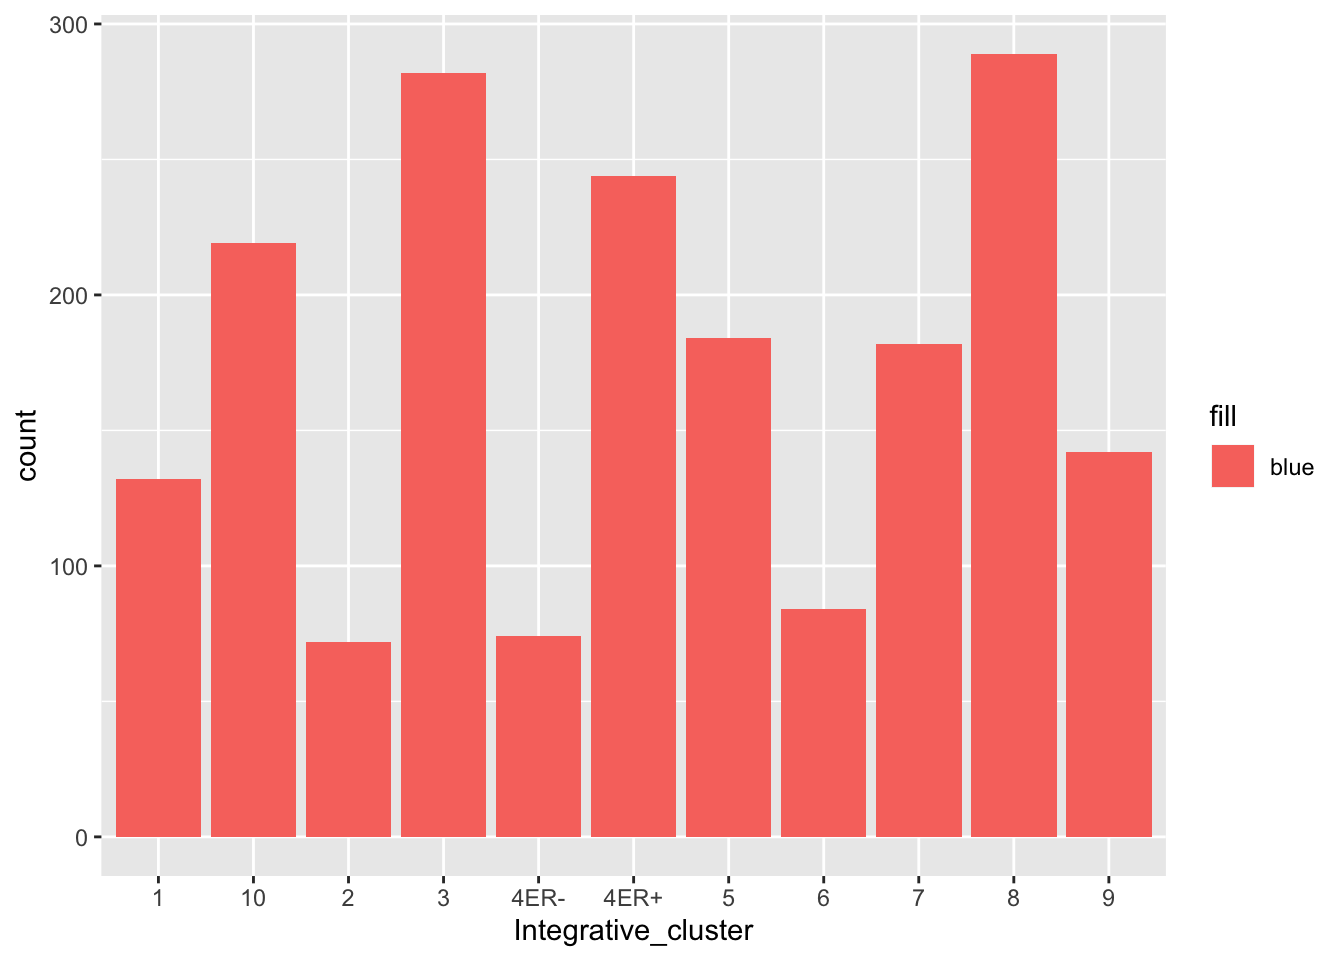
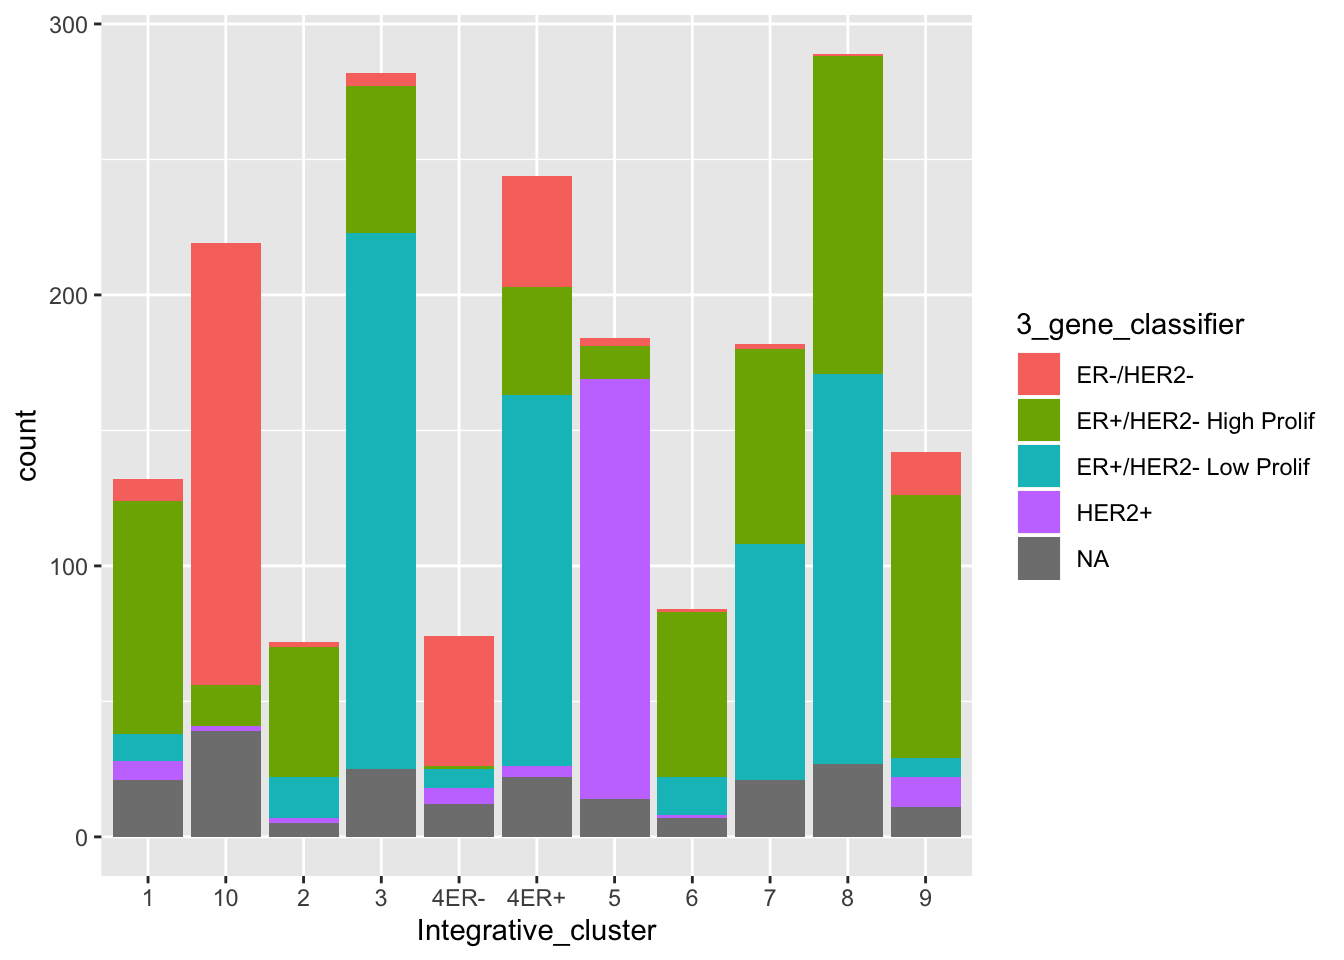
Added section on box plots.

diff --git a/docs/week2.html b/docs/week2.html
@@ -758,8 +758,8 @@ heights_in_centimetres</code></pre>
 <div id="combining-data-of-different-types" class="section level1">
 <h1>Combining data of different types</h1>
 <p>Vectors are all very well and good but your data are almost certainly more complicated than an ordered set of values all of the same type. You’ve probably been working with Excel spreadsheets that contain some columns that are numerical while others contain names or character strings, e.g. the following table of Star Wars characters.</p>
-<div id="htmlwidget-4cc543c7424d02c3016c" style="width:100%;height:auto;" class="datatables html-widget"></div>
-<script type="application/json" data-for="htmlwidget-4cc543c7424d02c3016c">{"x":{"filter":"none","data":[["Luke Skywalker","C-3PO","R2-D2","Darth Vader","Leia Organa","Owen Lars","Beru Whitesun lars","R5-D4","Biggs Darklighter","Obi-Wan Kenobi","Anakin Skywalker","Wilhuff Tarkin","Chewbacca","Han Solo","Greedo","Jabba Desilijic Tiure","Wedge Antilles","Jek Tono Porkins","Yoda","Palpatine","Boba Fett","IG-88","Bossk","Lando Calrissian","Lobot","Ackbar","Mon Mothma","Arvel Crynyd","Wicket Systri Warrick","Nien Nunb","Qui-Gon Jinn","Nute Gunray","Finis Valorum","Jar Jar Binks","Roos Tarpals","Rugor Nass","Ric Olié","Watto","Sebulba","Quarsh Panaka","Shmi Skywalker","Darth Maul","Bib Fortuna","Ayla Secura","Dud Bolt","Gasgano","Ben Quadinaros","Mace Windu","Ki-Adi-Mundi","Kit Fisto","Eeth Koth","Adi Gallia","Saesee Tiin","Yarael Poof","Plo Koon","Mas Amedda","Gregar Typho","Cordé","Cliegg Lars","Poggle the Lesser","Luminara Unduli","Barriss Offee","Dormé","Dooku","Bail Prestor Organa","Jango Fett","Zam Wesell","Dexter Jettster","Lama Su","Taun We","Jocasta Nu","Ratts Tyerell","R4-P17","Wat Tambor","San Hill","Shaak Ti","Grievous","Tarfful","Raymus Antilles","Sly Moore","Tion Medon","Finn","Rey","Poe Dameron","BB8","Captain Phasma","Padmé Amidala"],[172,167,96,202,150,178,165,97,183,182,188,180,228,180,173,175,170,180,66,170,183,200,190,177,175,180,150,null,88,160,193,191,170,196,224,206,183,137,112,183,163,175,180,178,94,122,163,188,198,196,171,184,188,264,188,196,185,157,183,183,170,166,165,193,191,183,168,198,229,213,167,79,96,193,191,178,216,234,188,178,206,null,null,null,null,null,165],[77,75,32,136,49,120,75,32,84,77,84,null,112,80,74,1358,77,110,17,75,78.2,140,113,79,79,83,null,null,20,68,89,90,null,66,82,null,null,null,40,null,null,80,null,55,45,null,65,84,82,87,null,50,null,null,80,null,85,null,null,80,56.2,50,null,80,null,79,55,102,88,null,null,15,null,48,null,57,159,136,79,48,80,null,null,null,null,null,45],["male",null,null,"male","female","male","female",null,"male","male","male","male","male","male","male","hermaphrodite","male","male","male","male","male","none","male","male","male","male","female","male","male","male","male","male","male","male","male","male","male","male","male","male","female","male","male","female","male","male","male","male","male","male","male","female","male","male","male","male","male","female","male","male","female","female","female","male","male","male","female","male","male","female","female","male","female","male","male","female","male","male","male","female","male","male","female","male","none","female","female"],["Human","Droid","Droid","Human","Human","Human","Human","Droid","Human","Human","Human","Human","Wookiee","Human","Rodian","Hutt","Human","Human","Yoda's species","Human","Human","Droid","Trandoshan","Human","Human","Mon Calamari","Human","Human","Ewok","Sullustan","Human","Neimodian","Human","Gungan","Gungan","Gungan",null,"Toydarian","Dug",null,"Human","Zabrak","Twi'lek","Twi'lek","Vulptereen","Xexto","Toong","Human","Cerean","Nautolan","Zabrak","Tholothian","Iktotchi","Quermian","Kel Dor","Chagrian","Human","Human","Human","Geonosian","Mirialan","Mirialan","Human","Human","Human","Human","Clawdite","Besalisk","Kaminoan","Kaminoan","Human","Aleena",null,"Skakoan","Muun","Togruta","Kaleesh","Wookiee","Human",null,"Pau'an","Human","Human","Human","Droid",null,"Human"],["Tatooine","Tatooine","Naboo","Tatooine","Alderaan","Tatooine","Tatooine","Tatooine","Tatooine","Stewjon","Tatooine","Eriadu","Kashyyyk","Corellia","Rodia","Nal Hutta","Corellia","Bestine IV",null,"Naboo","Kamino",null,"Trandosha","Socorro","Bespin","Mon Cala","Chandrila",null,"Endor","Sullust",null,"Cato Neimoidia","Coruscant","Naboo","Naboo","Naboo","Naboo","Toydaria","Malastare","Naboo","Tatooine","Dathomir","Ryloth","Ryloth","Vulpter","Troiken","Tund","Haruun Kal","Cerea","Glee Anselm","Iridonia","Coruscant","Iktotch","Quermia","Dorin","Champala","Naboo","Naboo","Tatooine","Geonosis","Mirial","Mirial","Naboo","Serenno","Alderaan","Concord Dawn","Zolan","Ojom","Kamino","Kamino","Coruscant","Aleen Minor",null,"Skako","Muunilinst","Shili","Kalee","Kashyyyk","Alderaan","Umbara","Utapau",null,null,null,null,null,"Naboo"]],"container":"<table class=\"display\">\n  <thead>\n    <tr>\n      <th>name<\/th>\n      <th>height<\/th>\n      <th>mass<\/th>\n      <th>gender<\/th>\n      <th>species<\/th>\n      <th>homeworld<\/th>\n    <\/tr>\n  <\/thead>\n<\/table>","options":{"columnDefs":[{"className":"dt-right","targets":[1,2]}],"order":[],"autoWidth":false,"orderClasses":false}},"evals":[],"jsHooks":[]}</script>
+<div id="htmlwidget-1b632fa016c77bcc2a83" style="width:100%;height:auto;" class="datatables html-widget"></div>
+<script type="application/json" data-for="htmlwidget-1b632fa016c77bcc2a83">{"x":{"filter":"none","data":[["Luke Skywalker","C-3PO","R2-D2","Darth Vader","Leia Organa","Owen Lars","Beru Whitesun lars","R5-D4","Biggs Darklighter","Obi-Wan Kenobi","Anakin Skywalker","Wilhuff Tarkin","Chewbacca","Han Solo","Greedo","Jabba Desilijic Tiure","Wedge Antilles","Jek Tono Porkins","Yoda","Palpatine","Boba Fett","IG-88","Bossk","Lando Calrissian","Lobot","Ackbar","Mon Mothma","Arvel Crynyd","Wicket Systri Warrick","Nien Nunb","Qui-Gon Jinn","Nute Gunray","Finis Valorum","Jar Jar Binks","Roos Tarpals","Rugor Nass","Ric Olié","Watto","Sebulba","Quarsh Panaka","Shmi Skywalker","Darth Maul","Bib Fortuna","Ayla Secura","Dud Bolt","Gasgano","Ben Quadinaros","Mace Windu","Ki-Adi-Mundi","Kit Fisto","Eeth Koth","Adi Gallia","Saesee Tiin","Yarael Poof","Plo Koon","Mas Amedda","Gregar Typho","Cordé","Cliegg Lars","Poggle the Lesser","Luminara Unduli","Barriss Offee","Dormé","Dooku","Bail Prestor Organa","Jango Fett","Zam Wesell","Dexter Jettster","Lama Su","Taun We","Jocasta Nu","Ratts Tyerell","R4-P17","Wat Tambor","San Hill","Shaak Ti","Grievous","Tarfful","Raymus Antilles","Sly Moore","Tion Medon","Finn","Rey","Poe Dameron","BB8","Captain Phasma","Padmé Amidala"],[172,167,96,202,150,178,165,97,183,182,188,180,228,180,173,175,170,180,66,170,183,200,190,177,175,180,150,null,88,160,193,191,170,196,224,206,183,137,112,183,163,175,180,178,94,122,163,188,198,196,171,184,188,264,188,196,185,157,183,183,170,166,165,193,191,183,168,198,229,213,167,79,96,193,191,178,216,234,188,178,206,null,null,null,null,null,165],[77,75,32,136,49,120,75,32,84,77,84,null,112,80,74,1358,77,110,17,75,78.2,140,113,79,79,83,null,null,20,68,89,90,null,66,82,null,null,null,40,null,null,80,null,55,45,null,65,84,82,87,null,50,null,null,80,null,85,null,null,80,56.2,50,null,80,null,79,55,102,88,null,null,15,null,48,null,57,159,136,79,48,80,null,null,null,null,null,45],["male",null,null,"male","female","male","female",null,"male","male","male","male","male","male","male","hermaphrodite","male","male","male","male","male","none","male","male","male","male","female","male","male","male","male","male","male","male","male","male","male","male","male","male","female","male","male","female","male","male","male","male","male","male","male","female","male","male","male","male","male","female","male","male","female","female","female","male","male","male","female","male","male","female","female","male","female","male","male","female","male","male","male","female","male","male","female","male","none","female","female"],["Human","Droid","Droid","Human","Human","Human","Human","Droid","Human","Human","Human","Human","Wookiee","Human","Rodian","Hutt","Human","Human","Yoda's species","Human","Human","Droid","Trandoshan","Human","Human","Mon Calamari","Human","Human","Ewok","Sullustan","Human","Neimodian","Human","Gungan","Gungan","Gungan",null,"Toydarian","Dug",null,"Human","Zabrak","Twi'lek","Twi'lek","Vulptereen","Xexto","Toong","Human","Cerean","Nautolan","Zabrak","Tholothian","Iktotchi","Quermian","Kel Dor","Chagrian","Human","Human","Human","Geonosian","Mirialan","Mirialan","Human","Human","Human","Human","Clawdite","Besalisk","Kaminoan","Kaminoan","Human","Aleena",null,"Skakoan","Muun","Togruta","Kaleesh","Wookiee","Human",null,"Pau'an","Human","Human","Human","Droid",null,"Human"],["Tatooine","Tatooine","Naboo","Tatooine","Alderaan","Tatooine","Tatooine","Tatooine","Tatooine","Stewjon","Tatooine","Eriadu","Kashyyyk","Corellia","Rodia","Nal Hutta","Corellia","Bestine IV",null,"Naboo","Kamino",null,"Trandosha","Socorro","Bespin","Mon Cala","Chandrila",null,"Endor","Sullust",null,"Cato Neimoidia","Coruscant","Naboo","Naboo","Naboo","Naboo","Toydaria","Malastare","Naboo","Tatooine","Dathomir","Ryloth","Ryloth","Vulpter","Troiken","Tund","Haruun Kal","Cerea","Glee Anselm","Iridonia","Coruscant","Iktotch","Quermia","Dorin","Champala","Naboo","Naboo","Tatooine","Geonosis","Mirial","Mirial","Naboo","Serenno","Alderaan","Concord Dawn","Zolan","Ojom","Kamino","Kamino","Coruscant","Aleen Minor",null,"Skako","Muunilinst","Shili","Kalee","Kashyyyk","Alderaan","Umbara","Utapau",null,null,null,null,null,"Naboo"]],"container":"<table class=\"display\">\n  <thead>\n    <tr>\n      <th>name<\/th>\n      <th>height<\/th>\n      <th>mass<\/th>\n      <th>gender<\/th>\n      <th>species<\/th>\n      <th>homeworld<\/th>\n    <\/tr>\n  <\/thead>\n<\/table>","options":{"columnDefs":[{"className":"dt-right","targets":[1,2]}],"order":[],"autoWidth":false,"orderClasses":false}},"evals":[],"jsHooks":[]}</script>
 <p>Note that the first column contains character type data, the second and third columns contain numerical data (of type double) and the remaining columns contain the special type we briefly touched on last week, factors, that look like character types but have a limited set of values or categories.</p>
 <div id="lists" class="section level2">
 <h2>Lists</h2>
@@ -851,13 +851,13 @@ t.test(sample1, sample2)</code></pre>
 ##  Welch Two Sample t-test
 ## 
 ## data:  sample1 and sample2
-## t = -3.0237, df = 96.96, p-value = 0.003195
+## t = -5.3825, df = 95.637, p-value = 5.227e-07
 ## alternative hypothesis: true difference in means is not equal to 0
 ## 95 percent confidence interval:
-##  -0.11062722 -0.02294885
+##  -0.15328804 -0.07068604
 ## sample estimates:
 ## mean of x mean of y 
-##  1.000731  1.067519</code></pre>
+##  0.995505  1.107492</code></pre>
 <p>The output from running the <code>t.test()</code> function doesn’t much look like a list. That’s because it is a special type of list with some additional behaviours including knowing how to print itself in a human-friendly way. But we can check it is a list and use some of the list operations we’ve just looked at.</p>
 <pre class="r"><code>result &lt;- t.test(sample1, sample2)
 is.list(result)</code></pre>
@@ -866,7 +866,7 @@ is.list(result)</code></pre>
 <pre><code>##  [1] &quot;statistic&quot;   &quot;parameter&quot;   &quot;p.value&quot;     &quot;conf.int&quot;    &quot;estimate&quot;   
 ##  [6] &quot;null.value&quot;  &quot;stderr&quot;      &quot;alternative&quot; &quot;method&quot;      &quot;data.name&quot;</code></pre>
 <pre class="r"><code>result$p.value</code></pre>
-<pre><code>## [1] 0.003195379</code></pre>
+<pre><code>## [1] 5.227177e-07</code></pre>
 </div>
 <div id="data-frames" class="section level2">
 <h2>Data frames</h2>
@@ -1193,12 +1193,12 @@ mtcars[1:6, c(&quot;cyl&quot;, &quot;mpg&quot;, &quot;kpl&quot;)]</code></pre>
 <p>The <code>tibble</code> package also contains various useful functions for converting other data structures, e.g. data frames, to tibbles and for working with tibble objects.</p>
 <p>The <code>tibble</code> package is one of a collection of packages that make up the tidyverse. It is usually more convenient to load the core tidyverse packages in one go as follows.</p>
 <pre class="r"><code>library(tidyverse)</code></pre>
-<pre><code>## ── Attaching packages ─────────────────────────────────────────────── tidyverse 1.3.0 ──</code></pre>
+<pre><code>## ── Attaching packages ─────────────────────── tidyverse 1.3.0 ──</code></pre>
 <pre><code>## ✔ ggplot2 3.2.1     ✔ purrr   0.3.3
 ## ✔ tibble  2.1.3     ✔ dplyr   0.8.3
 ## ✔ tidyr   1.0.0     ✔ stringr 1.4.0
 ## ✔ readr   1.3.1     ✔ forcats 0.4.0</code></pre>
-<pre><code>## ── Conflicts ────────────────────────────────────────────────── tidyverse_conflicts() ──
+<pre><code>## ── Conflicts ────────────────────────── tidyverse_conflicts() ──
 ## ✖ dplyr::filter() masks stats::filter()
 ## ✖ dplyr::lag()    masks stats::lag()</code></pre>
 <p>The output from this command tells us which packages were loaded, one of which is the <code>tibble</code> package. Another of these is <code>ggplot2</code> that provides excellent plotting functions for visualizing our data and will be the main focus next week.</p>

diff --git a/docs/week3.html b/docs/week3.html
@@ -508,7 +508,7 @@ metabric</code></pre>
 <p>The basic template is given in the summary box below. This template can be used to create any of the different types of graph possible with ggplot2.</p>
 <div class="rmdblock">
 <p>
-<strong>ggplot2 grammar</strong>
+<strong>ggplot2 grammar of graphics</strong>
 </p>
 <p>
 <strong><code>ggplot(data = &lt;DATA&gt;) + &lt;GEOM_FUNCTION&gt;(mapping = aes(&lt;MAPPINGS&gt;))</code></strong>
@@ -543,15 +543,19 @@ Layers can be added by adding geoms such as <code>geom_point()</code> using the 
 <p><img src="week3_files/figure-html/bar_plot_4-1.png" width="672" /></p>
 <p>We get a stacked bar plot.</p>
 <p>Note the similarity in what we did here to what we did with the scatter plot - there is a common grammar.</p>
+<p>Let’s try another stacked bar plot, this time with a categorical variable with more than two categories.</p>
+<pre class="r"><code>ggplot(data = metabric) +
+  geom_bar(mapping = aes(x = Integrative_cluster, fill = `3_gene_classifier`))</code></pre>
+<p><img src="week3_files/figure-html/bar_plot_5-1.png" width="672" /></p>
 <p>What if want all the bars to be the same colour but not dark grey, e.g. blue?</p>
 <pre class="r"><code>ggplot(data = metabric) +
   geom_bar(mapping = aes(x = Integrative_cluster, fill = &quot;blue&quot;))</code></pre>
-<p><img src="week3_files/figure-html/bar_plot_5-1.png" width="672" /></p>
+<p><img src="week3_files/figure-html/bar_plot_6-1.png" width="672" /></p>
 <p>That doesn’t look right - why not?</p>
 <p>You can set the aesthetics to a fixed value but this needs to be outside the mapping, just like we did before for size and transparency in the scatter plots.</p>
 <pre class="r"><code>ggplot(data = metabric) +
   geom_bar(mapping = aes(x = Integrative_cluster), fill = &quot;blue&quot;)</code></pre>
-<p><img src="week3_files/figure-html/bar_plot_6-1.png" width="672" /></p>
+<p><img src="week3_files/figure-html/bar_plot_7-1.png" width="672" /></p>
 <p>Setting this inside the <code>aes()</code> mapping told ggplot2 to map the colour aesthetic to some variable in the data frame, one that doesn’t really exist but which is created on-the-fly with a value of “blue” for every observation (patient).</p>
 </div>
 <div id="multiple-layers" class="section level1">
@@ -603,6 +607,34 @@ Layers can be added by adding geoms such as <code>geom_point()</code> using the 
   geom_smooth(mapping = aes(x = GATA3, y = ESR1), inherit.aes = FALSE)</code></pre>
 <pre><code>## `geom_smooth()` using method = &#39;gam&#39; and formula &#39;y ~ s(x, bs = &quot;cs&quot;)&#39;</code></pre>
 <p><img src="week3_files/figure-html/scatter_line_plot_6-1.png" width="672" /></p>
+</div>
+<div id="box-plots" class="section level1">
+<h1>Box plots</h1>
+<p>Box plots are a particular favourite of Wednesday lunchtime seminars.</p>
+<pre class="r"><code>ggplot(data = metabric, mapping = aes(x = ER_status, y = GATA3)) +
+  geom_boxplot()</code></pre>
+<p><img src="week3_files/figure-html/box_plot_1-1.png" width="672" /></p>
+<p>See <code>geom_boxplot</code> help to explain how the box and whiskers are constructed.</p>
+<p>How about adding another layer to display all the points?</p>
+<pre class="r"><code>ggplot(data = metabric, mapping = aes(x = ER_status, y = GATA3)) +
+  geom_boxplot() +
+  geom_point()</code></pre>
+<p><img src="week3_files/figure-html/box_plot_2-1.png" width="672" /></p>
+<p>The <code>geom_point</code> help points to <code>geom_jitter</code> as more suitable when one of the variables is categorical.</p>
+<pre class="r"><code>ggplot(data = metabric, mapping = aes(x = ER_status, y = GATA3)) +
+  geom_boxplot() +
+  geom_jitter()</code></pre>
+<p><img src="week3_files/figure-html/box_plot_3-1.png" width="672" /></p>
+<p>Well, that’s a bit of a mess. We need to reduce the spread or jitter and the size and make the points transparent.</p>
+<pre class="r"><code>ggplot(data = metabric, mapping = aes(x = ER_status, y = GATA3)) +
+  geom_boxplot() +
+  geom_jitter(width = 0.3, size = 0.5, alpha = 0.25)</code></pre>
+<p><img src="week3_files/figure-html/box_plot_4-1.png" width="672" /></p>
+<p>Displaying points in this way makes much more sense when we only have a few observations and where the box plot doesn’t really portray that. Here it makes less sense as we have very many observations.</p>
+<p>Let’s try a colour aesthetic to also look at how estrogen receptor expression differs between progesterone receptor (PR) positive and negative tumours.</p>
+<pre class="r"><code>ggplot(data = metabric, mapping = aes(x = ER_status, y = GATA3, colour = HER2_status)) +
+  geom_boxplot()</code></pre>
+<p><img src="week3_files/figure-html/box_plot_5-1.png" width="672" /></p>
 </div>
 
 
